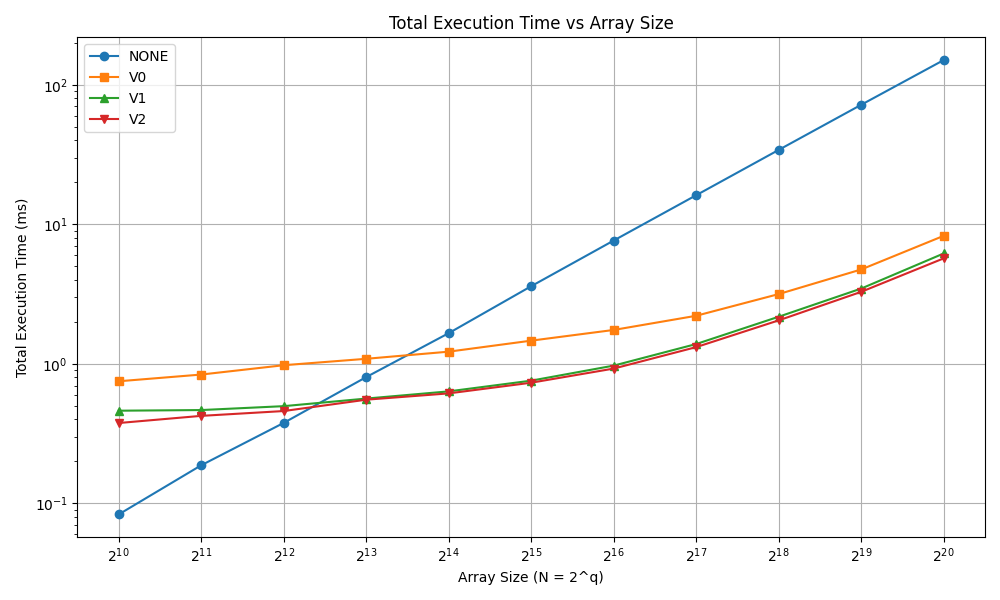
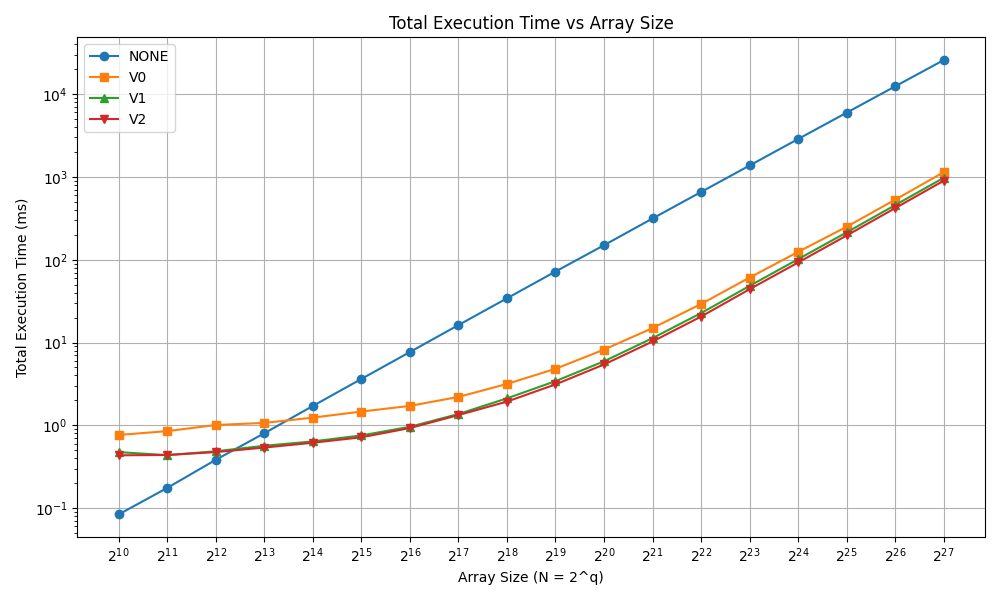
Change Q_MAX in tests and benchmarks

diff --git a/tests/test.cpp b/tests/test.cpp
@@ -2,7 +2,7 @@
 #include <stdlib.h>
 #include "bitonic_sort_cuda.cuh"
 
-#define Q_MAX 20
+#define Q_MAX 26
 
 #define BOLD_BLUE "\033[1;34m"
 #define BOLD_GREEN "\033[1;32m"
@@ -70,6 +70,8 @@ int main(void) {
     int n_tests = 0;
 
     srand(0); // Seed for reproducibility
+
+    if (print_cuda_device_info()) return EXIT_FAILURE;
 
     for (int v = KERNEL_V0; v <= KERNEL_V2; v++) {
         

diff --git a/benchmarks/export_benchmark_results.py b/benchmarks/export_benchmark_results.py
@@ -123,4 +123,4 @@ if __name__ == "__main__":
     args = parser.parse_args()
 
     plot_execution_time_vs_size(args.csv_path, args.plot_dir, "execution_time_vs_size.png")
-    export_speedup_table(args.csv_path, args.data_dir, 20, "speedup_table.dat")
+    export_speedup_table(args.csv_path, args.data_dir, 27, "speedup_table.dat")
